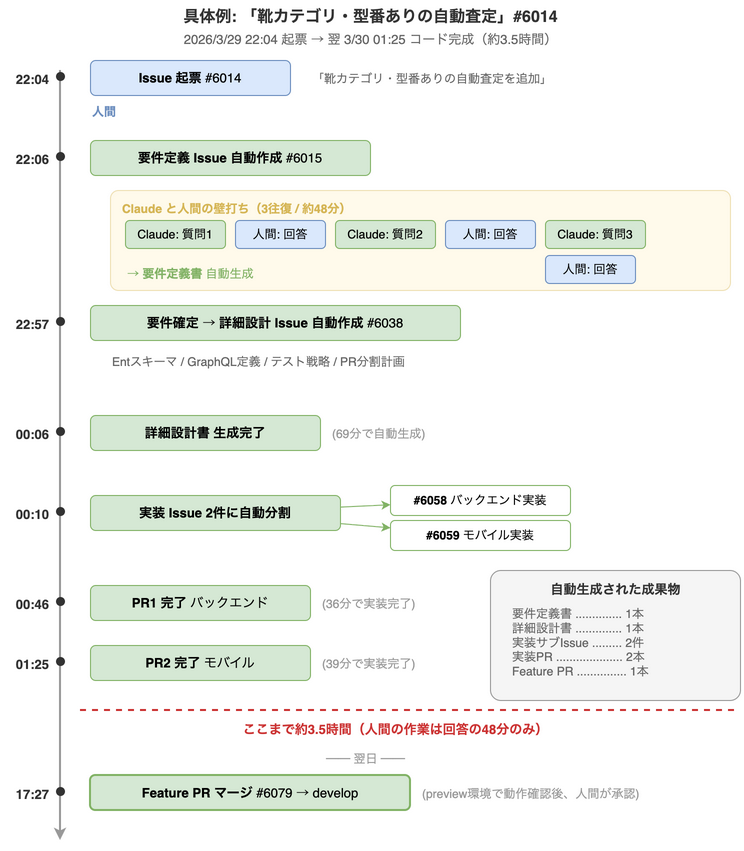
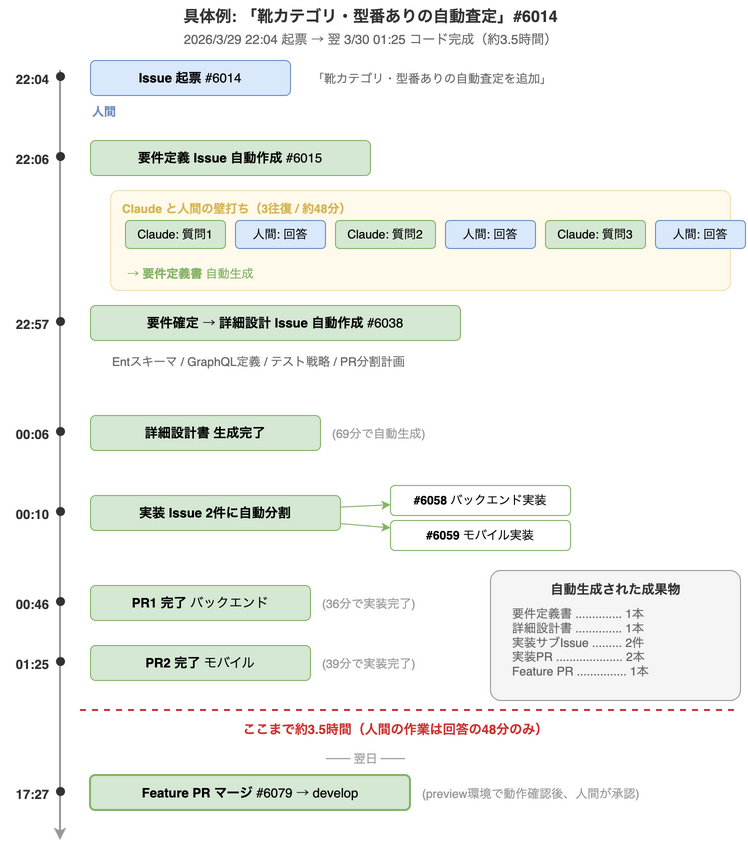
図の修正: 開発プロセス図削除・具体例/ラベル駆動フロー修正
- 開発プロセスのステップ図（03_development_process）を記事・assetsから削除
- 具体例図: 質問3の下にあった「人間:回答」を質問3の右横に移動
- ラベル駆動フロー図: 灰色のエッジラベルとブロッカー解消ループ矢印を削除
- backend e2eコード削除、「最も野心的」→「一番やりたかった」に修正

diff --git a/published/2026-04-01_テックブログ.md b/published/2026-04-01_テックブログ.md
@@ -82,8 +82,6 @@
 要求定義 → 要件定義 → 基本設計 → 詳細設計 → 実装 → 設計分割 → サブタスク化 → featureブランチ → devマージ
 ```
 
-![開発プロセスのステップ図](../assets/03_development_process.png)
-
 ![具体例: Issueからdevマージまでの流れ](../assets/03b_concrete_example.png)
 
 従来は「Issueを立てて、誰かが実装してPR出す」という粒度だった。これをここまで分解した理由は、 **AIエージェントが一つひとつのステップを確実にこなせるようにするため** だ。一気に全部やらせると品質がブレる。ステップを分ければ、各ステップでの検証が可能になる。
@@ -463,27 +461,6 @@ Maestro（モバイル）とPlaywright（Web）を組み合わせたE2Eテスト
 
 実はこの部分、既にかなり動いている。バックエンドE2Eテスト、Preview環境でのE2E、そして Claude Code スキルによるモバイル×管理画面の一気通貫テストまで構築済みだ。
 
-バックエンドE2Eテストの骨格（`backend/e2e/customer/main_test.go`）:
-
-```go
-//go:build e2e
-
-package customer_test
-
-import (
-	"os"
-	"testing"
-	"github.com/aicon-app-dev/itemforward/backend/e2e/testutil"
-)
-
-func TestMain(m *testing.M) {
-	if err := testutil.InitServers(); err != nil {
-		panic(err)
-	}
-	os.Exit(m.Run())
-}
-```
-
 `preview-e2e-test.yml` — Preview環境でEASビルドを取得→Simulatorにインストール→E2Eテスト実行:
 
 ```yaml
@@ -516,7 +493,7 @@ jobs:
           done
 ```
 
-最も野心的なのが `howmatch-e2e` Claude Code スキル。モバイル（iOS Simulator）と管理画面（Playwright）を MCP で操作し、アイテム登録→査定→金額反映の一気通貫フローを自動検証する:
+一番やりたかったのが `howmatch-e2e` Claude Code スキル。モバイル（iOS Simulator）と管理画面（Playwright）を MCP で操作し、アイテム登録→査定→金額反映の一気通貫フローを自動検証する:
 
 ```
 Test Flow:
